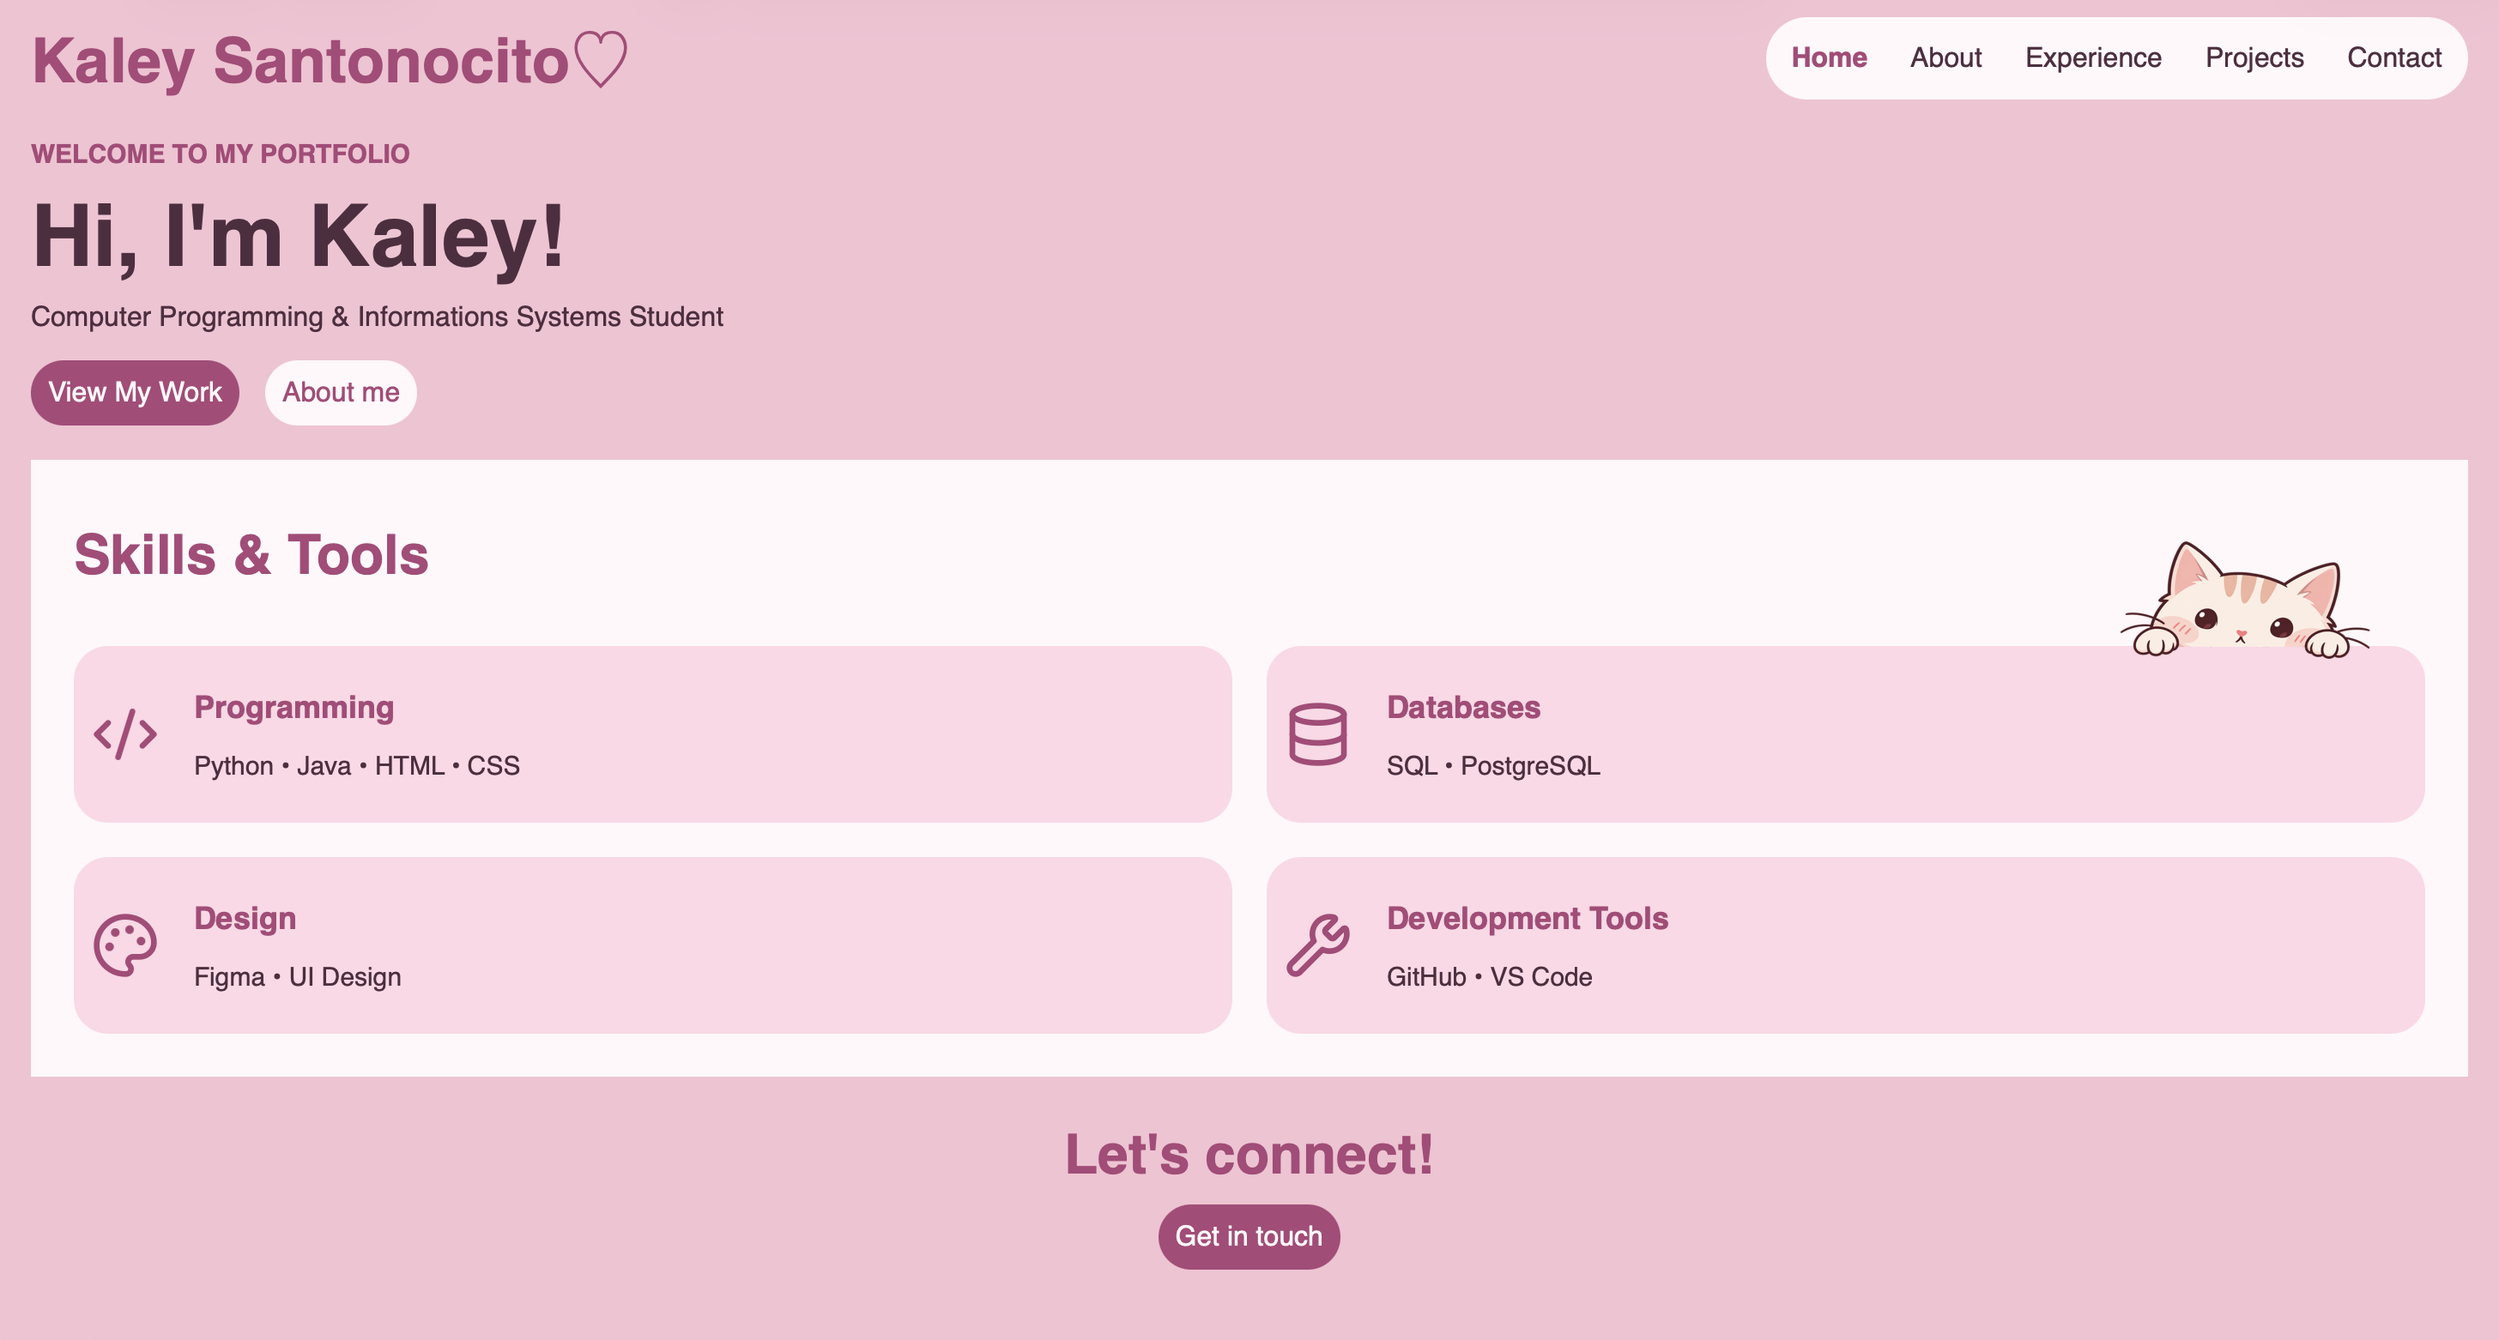
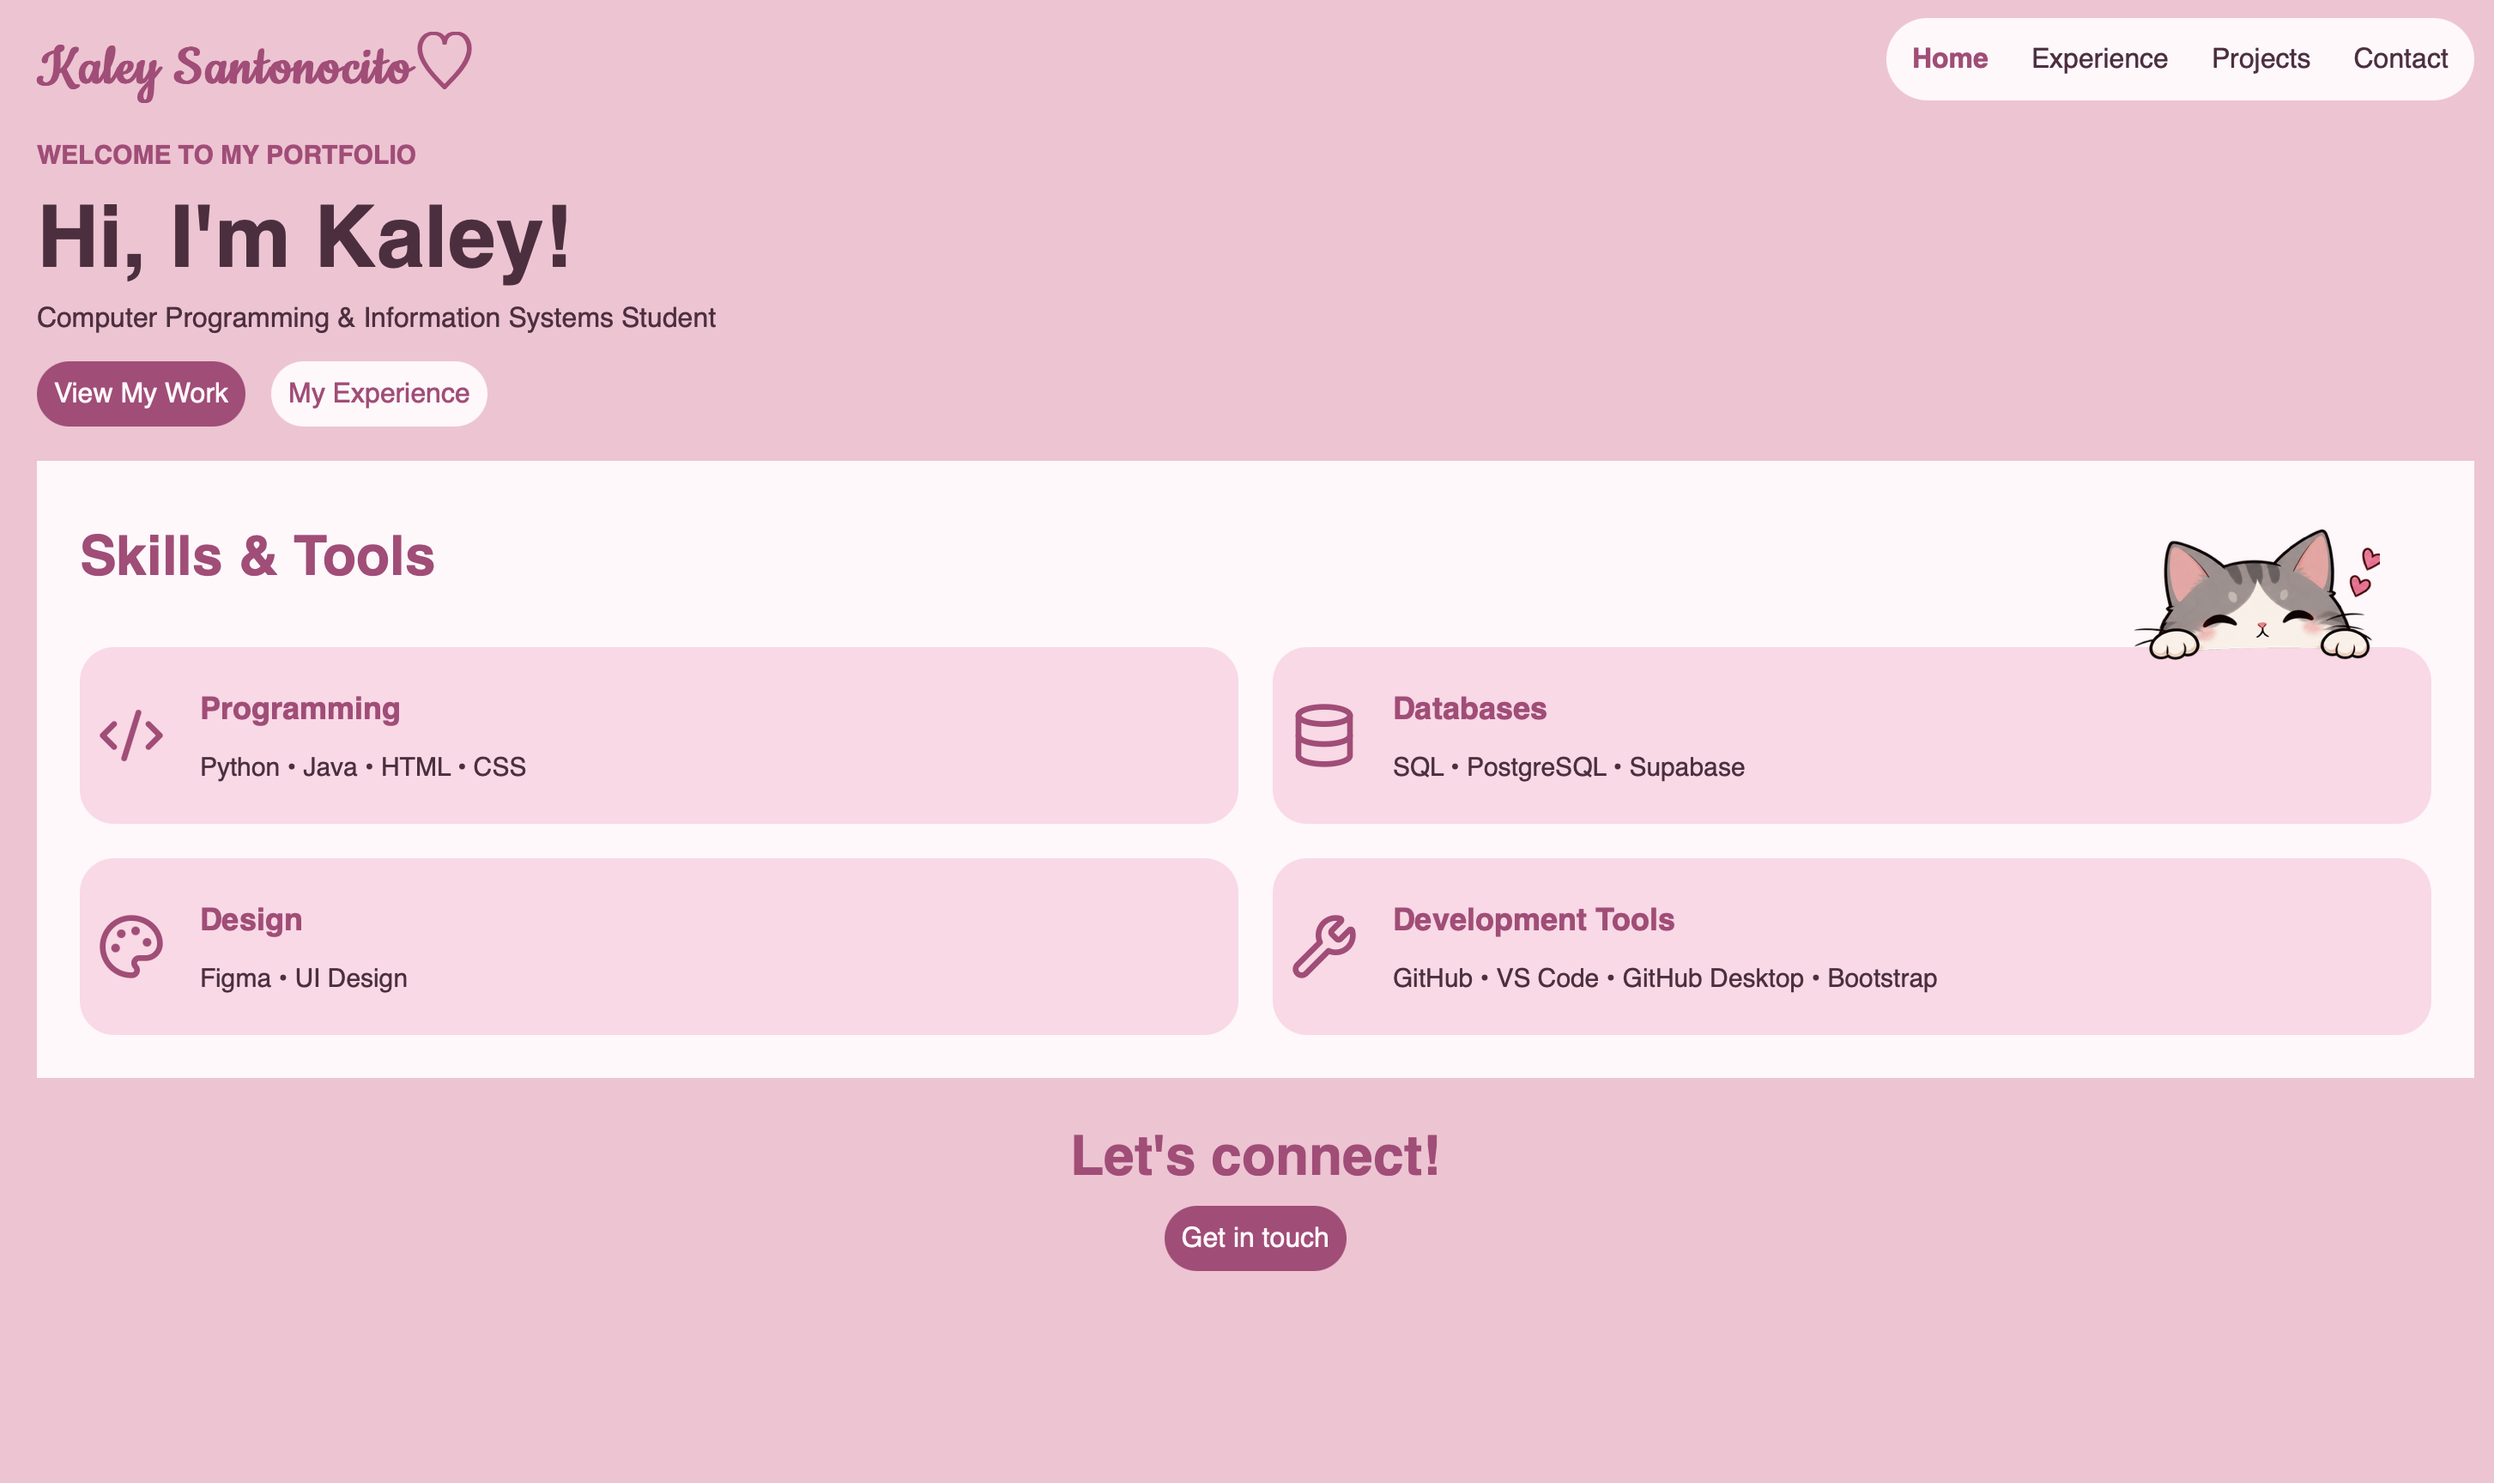
make small design changes and fixed spelling errors

Changed region(s): [[0.0, 0.0922, 1.0, 0.9526], [0.6813, 0.0, 0.9911, 0.0922], [0.0, 0.0307, 0.2478, 0.0615]]

diff --git a/index.html b/index.html
@@ -26,7 +26,7 @@
         <h4>WELCOME TO MY PORTFOLIO</h4>
         <h1>Hi, I'm Kaley!</h1>
 
-        <p>Computer Programming & Informations Systems Student</p>
+        <p>Computer Programming & Information Systems Student</p>
 
         <div class = "intro-buttons">
             <a href="projects.html" class="project-button">View My Work</a>
@@ -53,7 +53,7 @@
                 <img src="images/database.svg" alt="">
                 <div class="skill-text">
                     <h2>Databases</h2>
-                    <p>SQL • PostgreSQL</p>
+                    <p>SQL • PostgreSQL • Supabase</p>
                 </div>
             </div>
             <div class="skill-cards">
@@ -67,7 +67,7 @@
                 <img src="images/wrench.svg" alt="">
                 <div class="skill-text">
                     <h2>Development Tools</h2>
-                    <p>GitHub • VS Code</p>
+                    <p>GitHub • VS Code • GitHub Desktop • Bootstrap</p>
                 </div>
             </div>
         </div>

diff --git a/experience.html b/experience.html
@@ -95,7 +95,7 @@
         </div>
     
         <div class="work-description">
-            <p>Provide customer service and technical support, helping customers select devices, understand mobile plans, and troubleshoot issues.</p>
+            <p>Provide customer service and technical support in a fast paced retail environment, helping customers find solutions that meet their needs.</p>
         </div>
 
         <h3>Key Responsibilities:</h3>

diff --git a/css/style.css b/css/style.css
@@ -470,12 +470,13 @@ footer {
     margin-top: 20px;
 }
 
-.work-description ul {
+.work-card ul {
     color: #512D40;
     font-size: 14px;
     line-height: 1.8;
     padding-left: 20px;
 }
+
 
 .work-skills {
     display: flex;
@@ -512,7 +513,7 @@ footer {
 .projects h1 {
     color: #AC4779;
     font-size: 32px;
-    font-weight: 700;
+    font-weight: bold;
     text-align: center;
     margin-bottom: 25px;
 }
